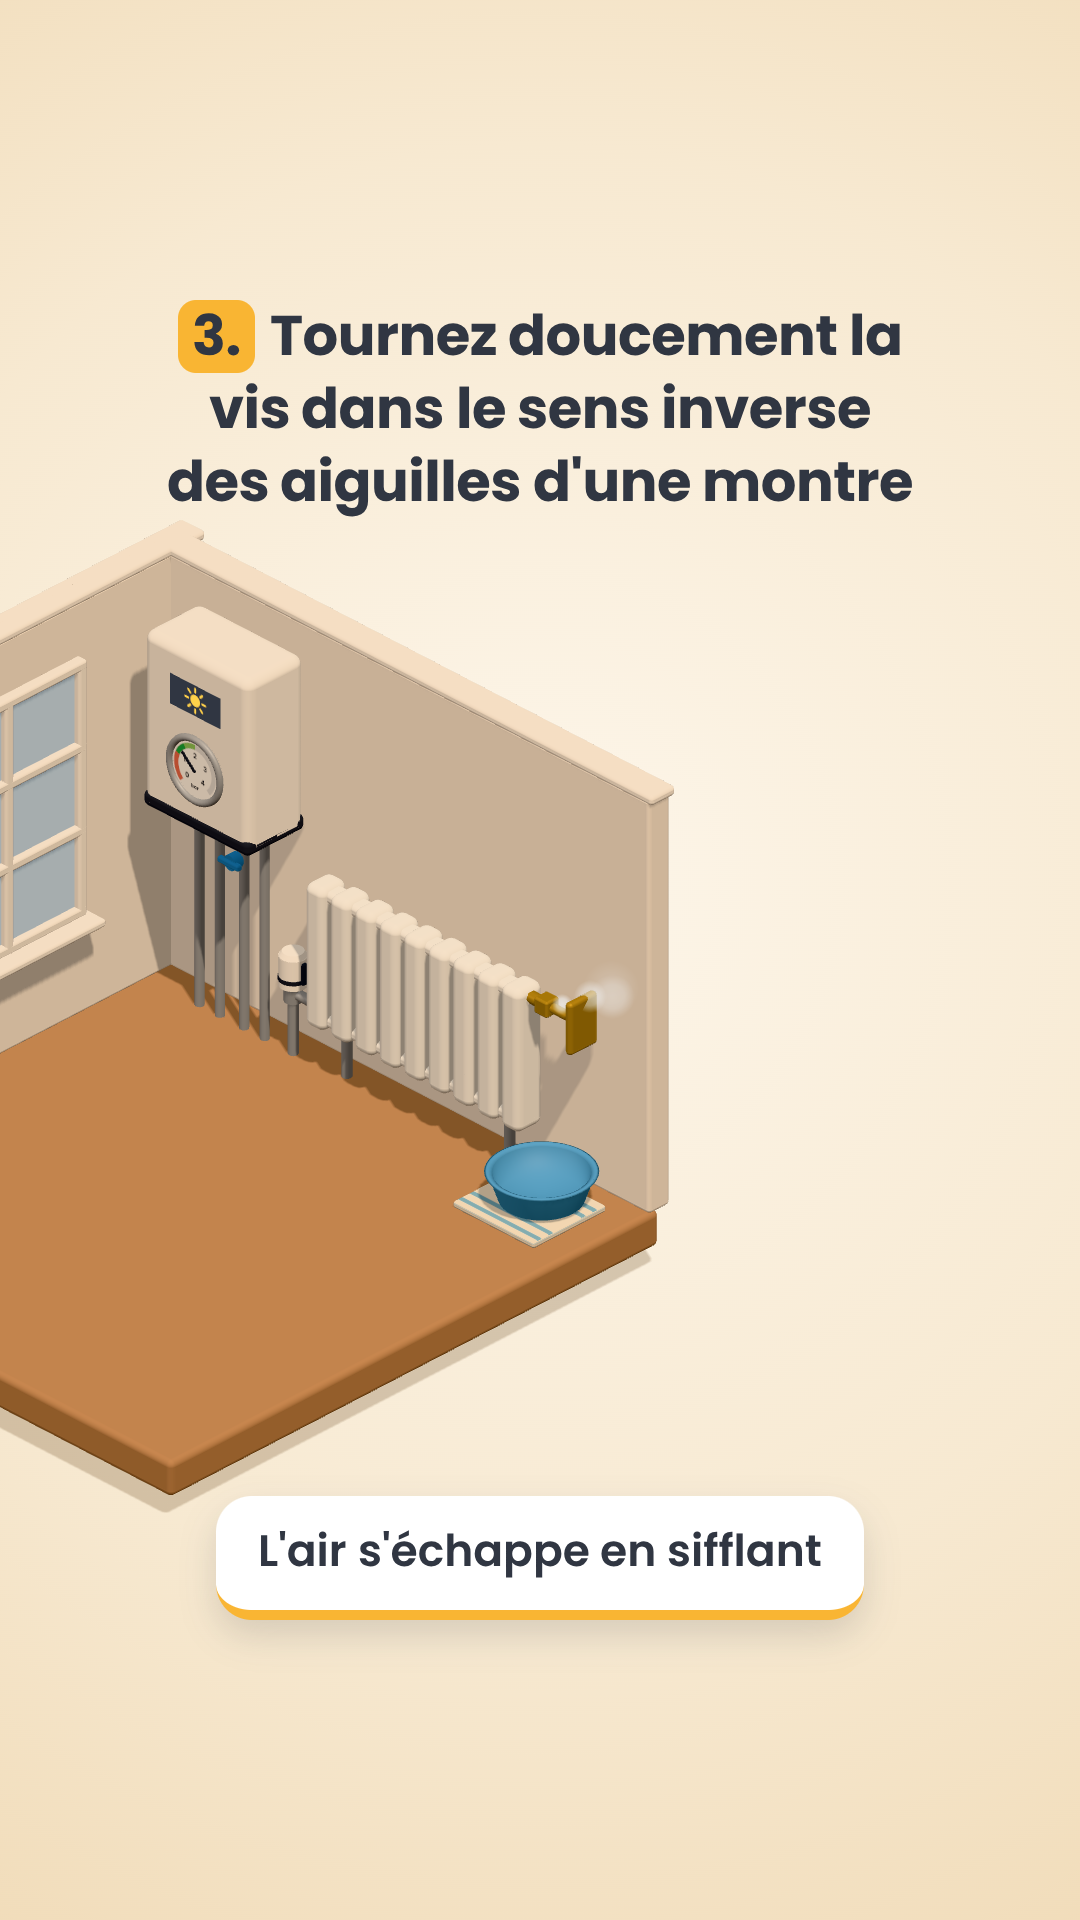
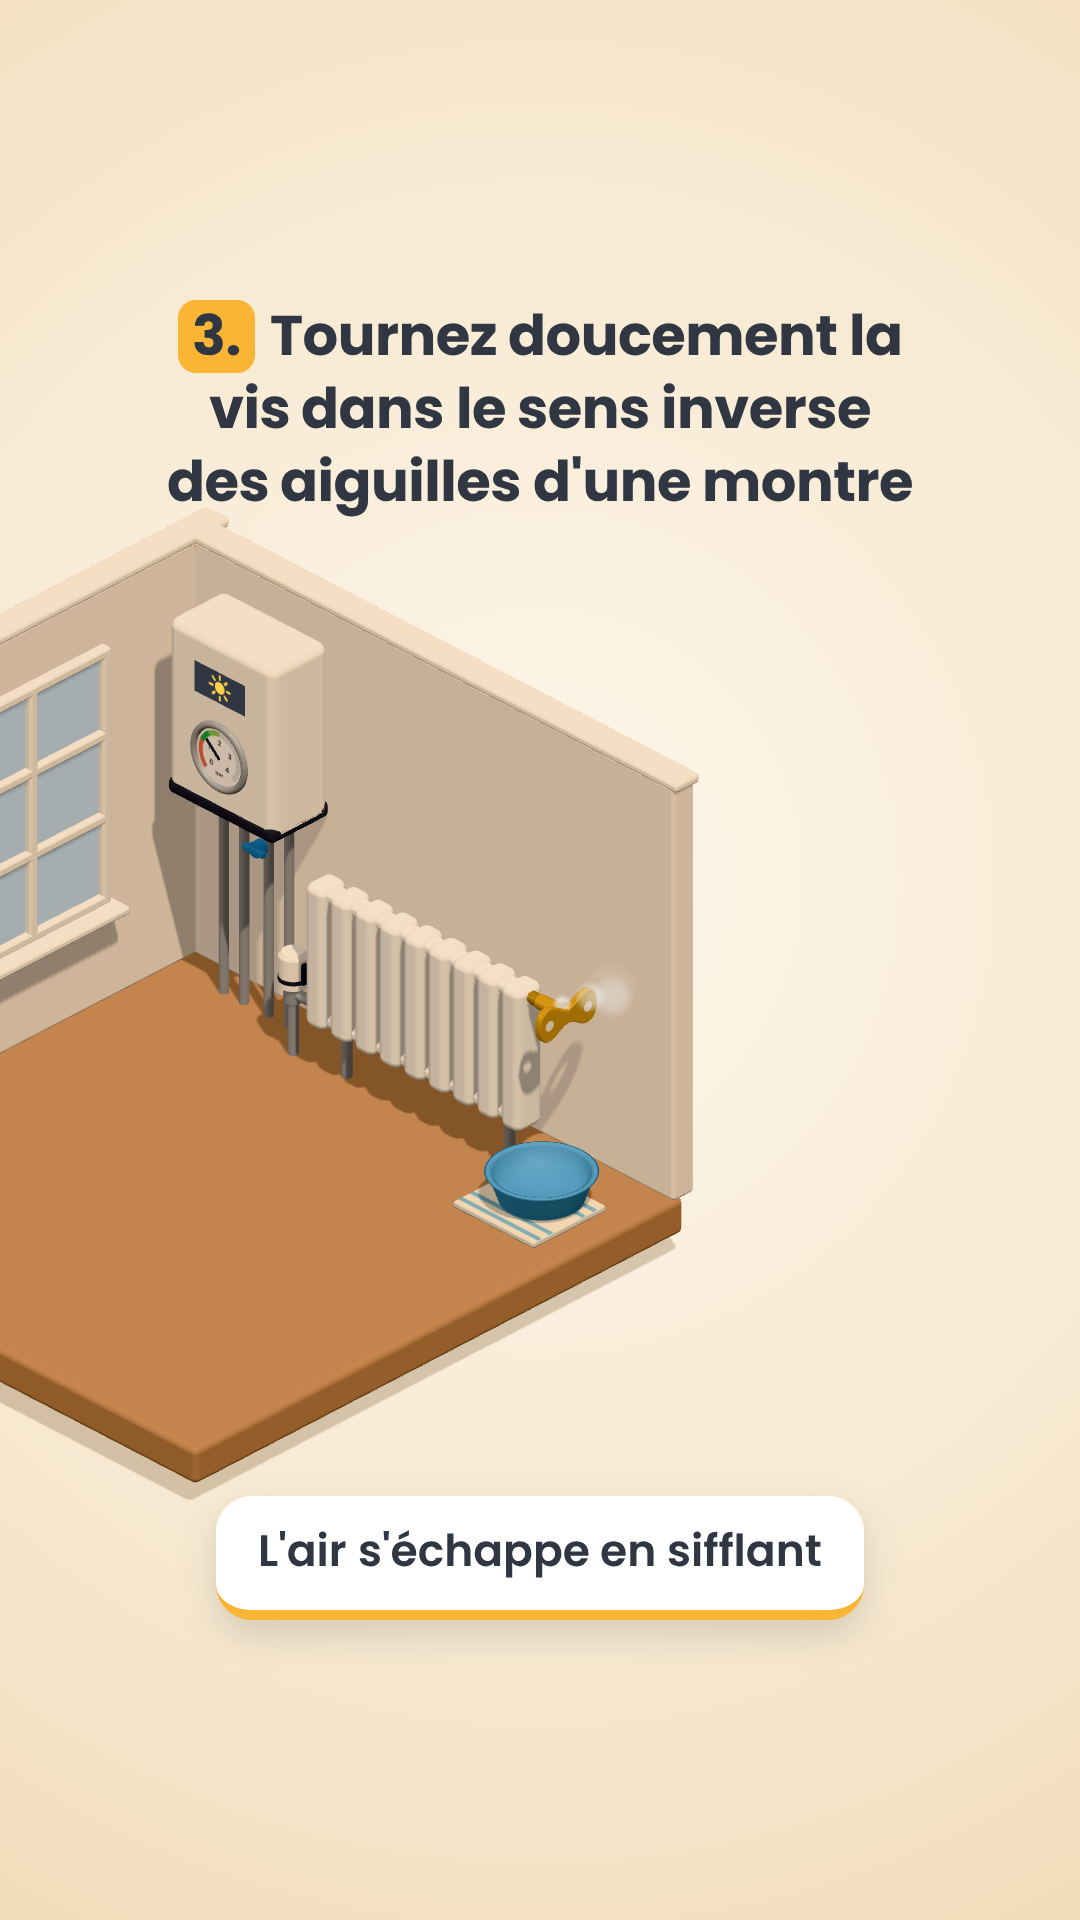
Rebuild bleed key (butterfly handle, square socket) and water (teardrops, jet, ripples)
Move the radiator off the wall so the key handle turns clear of it.

Claude-Session: https://claude.ai/code/session_014wm4UfzJL86KhVQLDVdnKe

diff --git a/reel-purge-radiateurs/src/scene.js b/reel-purge-radiateurs/src/scene.js
@@ -148,10 +148,10 @@ function makeRadiator() {
   return { g, m, head, screw };
 }
 const rad = makeRadiator();
-rad.g.position.set(.5, 0, -2.6);
+rad.g.position.set(.5, 0, -2.3);        // écarté du mur : la poignée de la clé tourne sans le toucher
 actor(rad.g, ROOM, .42);
-const SCREW = new THREE.Vector3(.5 + 1.43, 1.83, -2.6);   // bout de la vis, en coordonnées du monde
-const VALVE = new THREE.Vector3(.5 - 1.6, .86, -2.6);
+const SCREW = new THREE.Vector3(.5 + 1.43, 1.83, -2.3);   // bout de la vis, en coordonnées du monde
+const VALVE = new THREE.Vector3(.5 - 1.6, .86, -2.3);
 
 // vagues de chaleur au-dessus du radiateur
 const heat = [-.75, 0, .75].map((x, i) => {
@@ -225,10 +225,32 @@ actor(grp(-2.2, 0, 1.9,
 
 // ---------- le matériel ----------
 const ITEMS_END = S[6] + .35;
+// clé de purge en laiton : un canon à embout carré, une collerette, et une poignée papillon à deux ailes percées.
+// Repère local : l'embout est à l'origine, côté -x, et la clé s'étend vers +x (l'axe de la vis).
+const keyBrass = mat(0xe2ae3c, { roughness: .32, metalness: .3 });
+const keyBrassDk = mat(0xb9852a, { roughness: .4, metalness: .3 });
 const key = grp();
-key.add(box(.14, .14, .14, .02, C.brass, .07, 0, 0));
-{ const sh = cyl(.04, .04, .3, C.brass, 16, .27, 0, 0); sh.rotation.z = Math.PI / 2; key.add(sh); }
-key.add(box(.07, .46, .3, .05, C.brass, .44, 0, 0));
+{
+  const barrel = cyl(.07, .07, .26, keyBrass, 24, .13, 0, 0); barrel.rotation.z = Math.PI / 2; key.add(barrel);
+  key.add(box(.02, .075, .075, .006, C.dark, -.002, 0, 0));                     // le trou carré de l'embout
+  const collar = cyl(.095, .095, .045, keyBrassDk, 24, .27, 0, 0); collar.rotation.z = Math.PI / 2; key.add(collar);
+  const wing = new THREE.Shape();
+  wing.moveTo(0, .06);
+  wing.bezierCurveTo(.1, .06, .15, .16, .25, .15);
+  wing.bezierCurveTo(.37, .13, .37, -.13, .25, -.15);
+  wing.bezierCurveTo(.15, -.16, .1, -.06, 0, -.06);
+  wing.bezierCurveTo(-.1, -.06, -.15, -.16, -.25, -.15);
+  wing.bezierCurveTo(-.37, -.13, -.37, .13, -.25, .15);
+  wing.bezierCurveTo(-.15, .16, -.1, .06, 0, .06);
+  for (const u of [-.235, .235]) { const h = new THREE.Path(); h.absarc(u, 0, .05, 0, Math.PI * 2, true); wing.holes.push(h); }
+  const hg = new THREE.ExtrudeGeometry(wing, { depth: .045, bevelEnabled: true, bevelThickness: .012, bevelSize: .012, bevelSegments: 3, curveSegments: 24 });
+  hg.translate(0, 0, -.0225);
+  const handle = new THREE.Mesh(hg, keyBrass);
+  handle.rotation.y = Math.PI / 2;               // la poignée est perpendiculaire à l'axe de la vis
+  handle.position.x = .32;
+  handle.castShadow = handle.receiveShadow = true;
+  key.add(handle);
+}
 // la clé quitte le cadre pendant le gros plan de l'étape 2, puis revient se poser sur la vis à l'étape 3
 const keyA = actor(key, [[S[1] + .6, S[3] + .2], [S[4] + .25, ITEMS_END]]);
 
@@ -263,9 +285,30 @@ ring.renderOrder = 5; scene.add(ring);
 
 // air et eau
 const puffs = Array.from({ length: 14 }, () => { const s = new THREE.Sprite(new THREE.SpriteMaterial({ map: softDot, transparent: true, depthWrite: false })); scene.add(s); return s; });
-const dropG = new THREE.SphereGeometry(.055, 14, 10);
-const drops = Array.from({ length: 70 }, () => { const m = new THREE.Mesh(dropG, C.water); m.castShadow = true; scene.add(m); return m; });
 const bubbles = Array.from({ length: 12 }, () => { const s = new THREE.Sprite(new THREE.SpriteMaterial({ map: softDot, transparent: true, depthWrite: false })); scene.add(s); return s; });
+// l'eau : des gouttes en forme de larme, un jet continu, des reflets qui descendent le jet, des ronds et des
+// éclaboussures dans la bassine
+const waterM = new THREE.MeshStandardMaterial({ color: 0x4aa8ef, roughness: .06, metalness: 0, transparent: true, opacity: .9, emissive: 0x1d6fb8, emissiveIntensity: .3 });
+const tearG = new THREE.LatheGeometry(Array.from({ length: 17 }, (_, i) => {
+  const a = i / 16 * Math.PI;
+  return new THREE.Vector2(Math.sin(a) * Math.pow(Math.sin(a / 2), 1.3) * .075, Math.cos(a) * .1);
+}), 24);
+const drops = Array.from({ length: 24 }, () => { const m = new THREE.Mesh(tearG, waterM); m.castShadow = true; scene.add(m); return m; });
+const G2 = 4.4;                                    // la moitié de la gravité de la scène : y = -G2·τ²
+const JV = .62;                                    // vitesse de sortie horizontale de l'eau
+const jetAt = (tau, out = new THREE.Vector3()) => out.copy(SCREW).add(new THREE.Vector3(.08 + JV * tau, -G2 * tau * tau, .02));
+const JET_T = .6, JET_N = 60, JET_R = 12;
+const jetPts = Array.from({ length: 31 }, (_, i) => jetAt(i / 30 * JET_T));
+const jetG = new THREE.TubeGeometry(new THREE.CatmullRomCurve3(jetPts), JET_N, .034, JET_R);
+const jet = new THREE.Mesh(jetG, waterM); jet.castShadow = true; scene.add(jet);
+const glints = Array.from({ length: 6 }, () => { const s = new THREE.Sprite(new THREE.SpriteMaterial({ map: softDot, transparent: true, depthWrite: false })); scene.add(s); return s; });
+const ripples = Array.from({ length: 4 }, () => {
+  const m = new THREE.Mesh(new THREE.TorusGeometry(.1, .007, 8, 48), new THREE.MeshBasicMaterial({ color: 0xd8efff, transparent: true, depthWrite: false }));
+  m.rotation.x = Math.PI / 2; scene.add(m); return m;
+});
+const splashG = new THREE.SphereGeometry(.022, 10, 8);
+const splashes = Array.from({ length: 10 }, () => { const m = new THREE.Mesh(splashG, waterM); scene.add(m); return m; });
+const hash = i => { const x = Math.sin(i * 127.1 + 311.7) * 43758.5453; return x - Math.floor(x); };
 
 // ---------- la maison (étape 5) ----------
 const HOUSE = [[S[6] + 1.0, S[7]]];
@@ -316,7 +359,7 @@ const CAM0 = { zoom: 1, tx: .2, ty: 1.55, tz: .2 };
 const MOVES = [
   [S[1], S[1] + .6, { zoom: .98, tx: .5, ty: .9, tz: .5 }],                     // le matériel au premier plan
   [S[2], S[2] + .6, CAM0],
-  [S[3], S[3] + .9, { zoom: 1.6, tx: 1.93, ty: 2.25, tz: -2.6 }],               // gros plan sur la vis de purge
+  [S[3], S[3] + .9, { zoom: 1.6, tx: 1.93, ty: 2.25, tz: -2.3 }],               // gros plan sur la vis de purge
   [S[6], S[6] + .6, CAM0],
   [S[6] + 1.0, S[6] + 1.8, { zoom: 1.3, tx: .1, ty: 1.4, tz: .1 }],              // la maison, un peu plus près
   [S[7], S[7] + .6, CAM0],
@@ -382,7 +425,7 @@ function renderAt(t, opts = {}) {
   const roomS = life(t, ROOM, .42);
   for (const w of heat) {
     const ph = ((t * .55 + w.i / 3) % 1 + 1) % 1;
-    w.o.position.set(w.x, 2.05 + ph * .8, -2.5);
+    w.o.position.set(w.x, 2.05 + ph * .8, -2.2);
     w.m.opacity = h * Math.sin(Math.PI * ph) * .8 * clamp(roomS);
     w.o.visible = w.m.opacity > .01;
   }
@@ -401,23 +444,24 @@ function renderAt(t, opts = {}) {
 
   // matériel : posé au premier plan, puis amené sous la vis
   const kS = keyA.obj.scale.x, bS = bowlA.obj.scale.x, tS = towelA.obj.scale.x;
-  const restK = new THREE.Vector3(.0, .0, 2.4), restB = new THREE.Vector3(1.25, 0, 1.25), restT = new THREE.Vector3(2.4, 0, 0);
+  const restK = new THREE.Vector3(-.55, .0, 2.05), restB = new THREE.Vector3(1.25, 0, 1.25), restT = new THREE.Vector3(2.4, 0, 0);
   const dropIn = a => (1 - outc(seg(t, a, a + .45))) * 1.6;    // chute depuis le haut quand l'objet apparaît
   // serviette puis bassine glissent sous la vis (étape 2)
   const mT = ioc(seg(t, S[3] + .5, S[3] + 1.3)), mB = ioc(seg(t, S[3] + .8, S[3] + 1.6));
-  const underT = new THREE.Vector3(2.2, 0, -2.2), underB = new THREE.Vector3(2.25, .07, -2.3);
+  const underT = new THREE.Vector3(2.2, 0, -1.9), underB = new THREE.Vector3(2.25, .07, -2.0);
   towelA.obj.position.copy(restT).lerp(underT, mT).add(new THREE.Vector3(0, Math.sin(Math.PI * mT) * .6 + dropIn(S[1] + 3.6), 0));
   towelA.obj.scale.setScalar(tS * lerp(1.35, 1, mT));
   bowlA.obj.position.copy(restB).lerp(underB, mB).add(new THREE.Vector3(0, Math.sin(Math.PI * mB) * .9 + dropIn(S[1] + 2.1), 0));
   bowlA.obj.scale.setScalar(bS * lerp(1.5, 1, mB));
   // clé : posée au sol, puis engagée sur la vis, tournée d'un demi-tour à gauche, puis refermée
   const mK = ioc(seg(t, S[4] + .4, S[4] + 1.2));
-  const restScale = 2.0, atScale = 1.15;
+  const restScale = 2.2, atScale = 1.0;
   const keyRestPos = t < S[4]
-    ? restK.clone().add(new THREE.Vector3(0, .23 * restScale + dropIn(S[1] + .6), 0))
+    ? restK.clone().add(new THREE.Vector3(0, .175 * restScale + dropIn(S[1] + .6), 0))
     : SCREW.clone().add(new THREE.Vector3(.9, .9, .9));
   keyA.obj.position.copy(keyRestPos).lerp(SCREW, mK).add(new THREE.Vector3(0, Math.sin(Math.PI * mK) * .5, 0));
-  qA.setFromAxisAngle(Y, Math.PI * .75); qB.identity();
+  // au sol, la poignée papillon se présente de trois quarts face à la caméra
+  qA.setFromAxisAngle(Y, t < S[4] ? -.35 : 0); qB.identity();
   const turn = Math.PI * .5 * (ioc(seg(t, S[4] + 1.4, S[4] + 2.0)) + ioc(seg(t, S[4] + 2.3, S[4] + 2.9)))
              - Math.PI * ioc(seg(t, S[5] + 3.4, S[5] + 4.4));
   qR.setFromAxisAngle(X, turn);
@@ -460,30 +504,95 @@ function renderAt(t, opts = {}) {
   });
 
   // l'eau : des gouttes avec des bulles, puis un jet continu, qui s'arrête quand on referme
+  // l'eau : d'abord des gouttes irrégulières mêlées de bulles d'air (ça crachote), puis un jet continu, qui se
+  // détache quand on referme ; restent deux dernières gouttes qui perlent au bout de la vis
   const w0 = S[5] + .4, wJet = S[5] + 1.8, wEnd = S[5] + 3.7;
+  const v = new THREE.Vector3(), up = new THREE.Vector3(0, 1, 0);
+  const tear = (d, x, size, lead = 0) => {                 // une larme en chute libre depuis la vis, x secondes après sa sortie
+    jetAt(x, d.position);
+    v.set(JV, -2 * G2 * x, 0);
+    const sp = v.length();
+    d.quaternion.setFromUnitVectors(up, v.normalize().negate());   // la pointe de la larme vers l'arrière de la chute
+    d.scale.set(size, size * (1 + sp * .12 + lead), size);
+  };
   drops.forEach((d, i) => {
-    const jet = i >= 20;
-    const a = jet ? wJet + (i - 20) * .038 : w0 + i * .07 + (i % 3) * .03;
-    const x = t - a;
-    const fall = .62;
-    d.visible = x > 0 && x < fall && a < wEnd && !(jet === false && a > wJet);
-    if (!d.visible) return;
-    d.position.copy(SCREW).add(new THREE.Vector3(.08 + x * .62, -4.4 * x * x, .02));
-    d.scale.setScalar(jet ? 1.15 : .9);
+    d.visible = false;
+    if (i < 16) {                                         // la phase où ça crachote
+      const a = w0 + i * .085 + hash(i) * .05, x = t - a;
+      if (x <= 0 || x >= JET_T || a >= wJet) return;
+      d.visible = true;
+      tear(d, x, .75 + hash(i + 9) * .45);
+    } else if (i < 22) {                                  // des gouttes qui accompagnent l'arrivée et la fin du jet
+      const k = i - 16, a = k < 3 ? wJet - .12 + k * .05 : wEnd + (k - 3) * .07, x = t - a;
+      if (x <= 0 || x >= JET_T) return;
+      d.visible = true;
+      tear(d, x, 1.0);
+    } else {                                              // les dernières gouttes : elles grossissent au bout de la vis, puis tombent
+      const a = wEnd + .55 + (i - 22) * .75, grow = .35, x = t - a;
+      if (x <= 0 || x >= grow + JET_T || t > ITEMS_END) return;
+      d.visible = true;
+      if (x < grow) {
+        const k = backOut(x / grow, 1.2);
+        d.position.copy(SCREW).add(new THREE.Vector3(.07, -.07 * k, .02));
+        d.quaternion.identity();
+        d.scale.set(.8 * k, .9 * k, .8 * k);
+      } else {
+        const xf = (x - grow) * .9;
+        d.position.copy(SCREW).add(new THREE.Vector3(.07 + .12 * xf, -.07 - G2 * xf * xf, .02));
+        d.quaternion.identity();
+        d.scale.set(.8, .9 + xf * .6, .8);
+      }
+    }
   });
   bubbles.forEach((b, i) => {
-    const a = w0 + .05 + i * .11, x = t - a;
-    b.visible = x > 0 && x < .5 && a < wJet;
+    const a = w0 + .05 + i * .11 + hash(i + 3) * .04, x = t - a;
+    b.visible = x > 0 && x < .45 && a < wJet;
     if (!b.visible) return;
-    b.position.copy(SCREW).add(new THREE.Vector3(.12 + x * .5, -3.8 * x * x + .05, .05));
-    b.scale.setScalar(.12);
-    b.material.opacity = .95;
+    b.position.copy(SCREW).add(new THREE.Vector3(.1 + x * .45, -3.2 * x * x + .06 + x * .2, .06));
+    b.scale.setScalar(.09 + x * .2);
+    b.material.opacity = .95 * (1 - x / .45);
+  });
+  // le jet : un tube le long de la trajectoire, dont on ne dessine que la partie déjà remplie d'eau
+  const head = clamp((t - wJet) / JET_T * 1.15), tail = clamp((t - wEnd) / JET_T * 1.15);
+  jet.visible = head > tail && t < ITEMS_END;
+  if (jet.visible) {
+    const per = JET_R * 6, s0 = Math.floor(tail * JET_N), s1 = Math.ceil(head * JET_N);
+    jetG.setDrawRange(s0 * per, (s1 - s0) * per);
+  }
+  glints.forEach((g, i) => {                              // des reflets qui descendent le long du jet
+    const ph = ((t * 1.6 + i / glints.length) % 1 + 1) % 1, tau = ph * JET_T;
+    g.visible = jet.visible && ph > tail && ph < head;
+    if (!g.visible) return;
+    jetAt(tau, g.position).add(new THREE.Vector3(0, .01, .03));
+    g.scale.setScalar(.05);
+    g.material.opacity = .9 * Math.sin(Math.PI * ph);
   });
   const wl = bowl.userData.water;
   const lvl = seg(t, w0 + .5, wEnd + .4);
   wl.visible = lvl > 0 && t < ITEMS_END;
   wl.position.y = .07 + lvl * .14;
   wl.scale.setScalar(.82 + lvl * .14);
+  // ronds dans l'eau et éclaboussures au point d'impact, tant que l'eau arrive
+  const hit = jetAt(JET_T);
+  hit.y = bowlA.obj.position.y + (.07 + lvl * .14) * bowlA.obj.scale.y + .004;
+  const wet = t > w0 + JET_T && t < wEnd + JET_T + .5 && t < ITEMS_END && lvl > 0;
+  const strong = clamp((t - wJet - JET_T) / .3) * (1 - clamp((t - wEnd - JET_T) / .2));
+  ripples.forEach((r, i) => {
+    const ph = ((t - w0) / .55 + i / ripples.length) % 1;
+    r.visible = wet;
+    if (!wet) return;
+    r.position.copy(hit);
+    r.scale.setScalar(.4 + ph * 2.6);
+    r.material.opacity = (1 - ph) * .75;
+  });
+  splashes.forEach((m, i) => {
+    const per = .32, ph = ((t * (1 / per) + hash(i)) % 1 + 1) % 1, th = hash(i + 20) * Math.PI * 2;
+    m.visible = wet && strong > .05 && t > wJet + JET_T;
+    if (!m.visible) return;
+    const r = .05 + ph * (.16 + hash(i + 40) * .1);
+    m.position.copy(hit).add(new THREE.Vector3(Math.cos(th) * r, Math.sin(Math.PI * ph) * (.1 + hash(i + 60) * .08), Math.sin(th) * r));
+    m.scale.setScalar((1 - ph * .6) * strong);
+  });
 
   // maison : les radiateurs se font l'un après l'autre (pastilles 1, 2, 3)
   badges.forEach((b, i) => {
